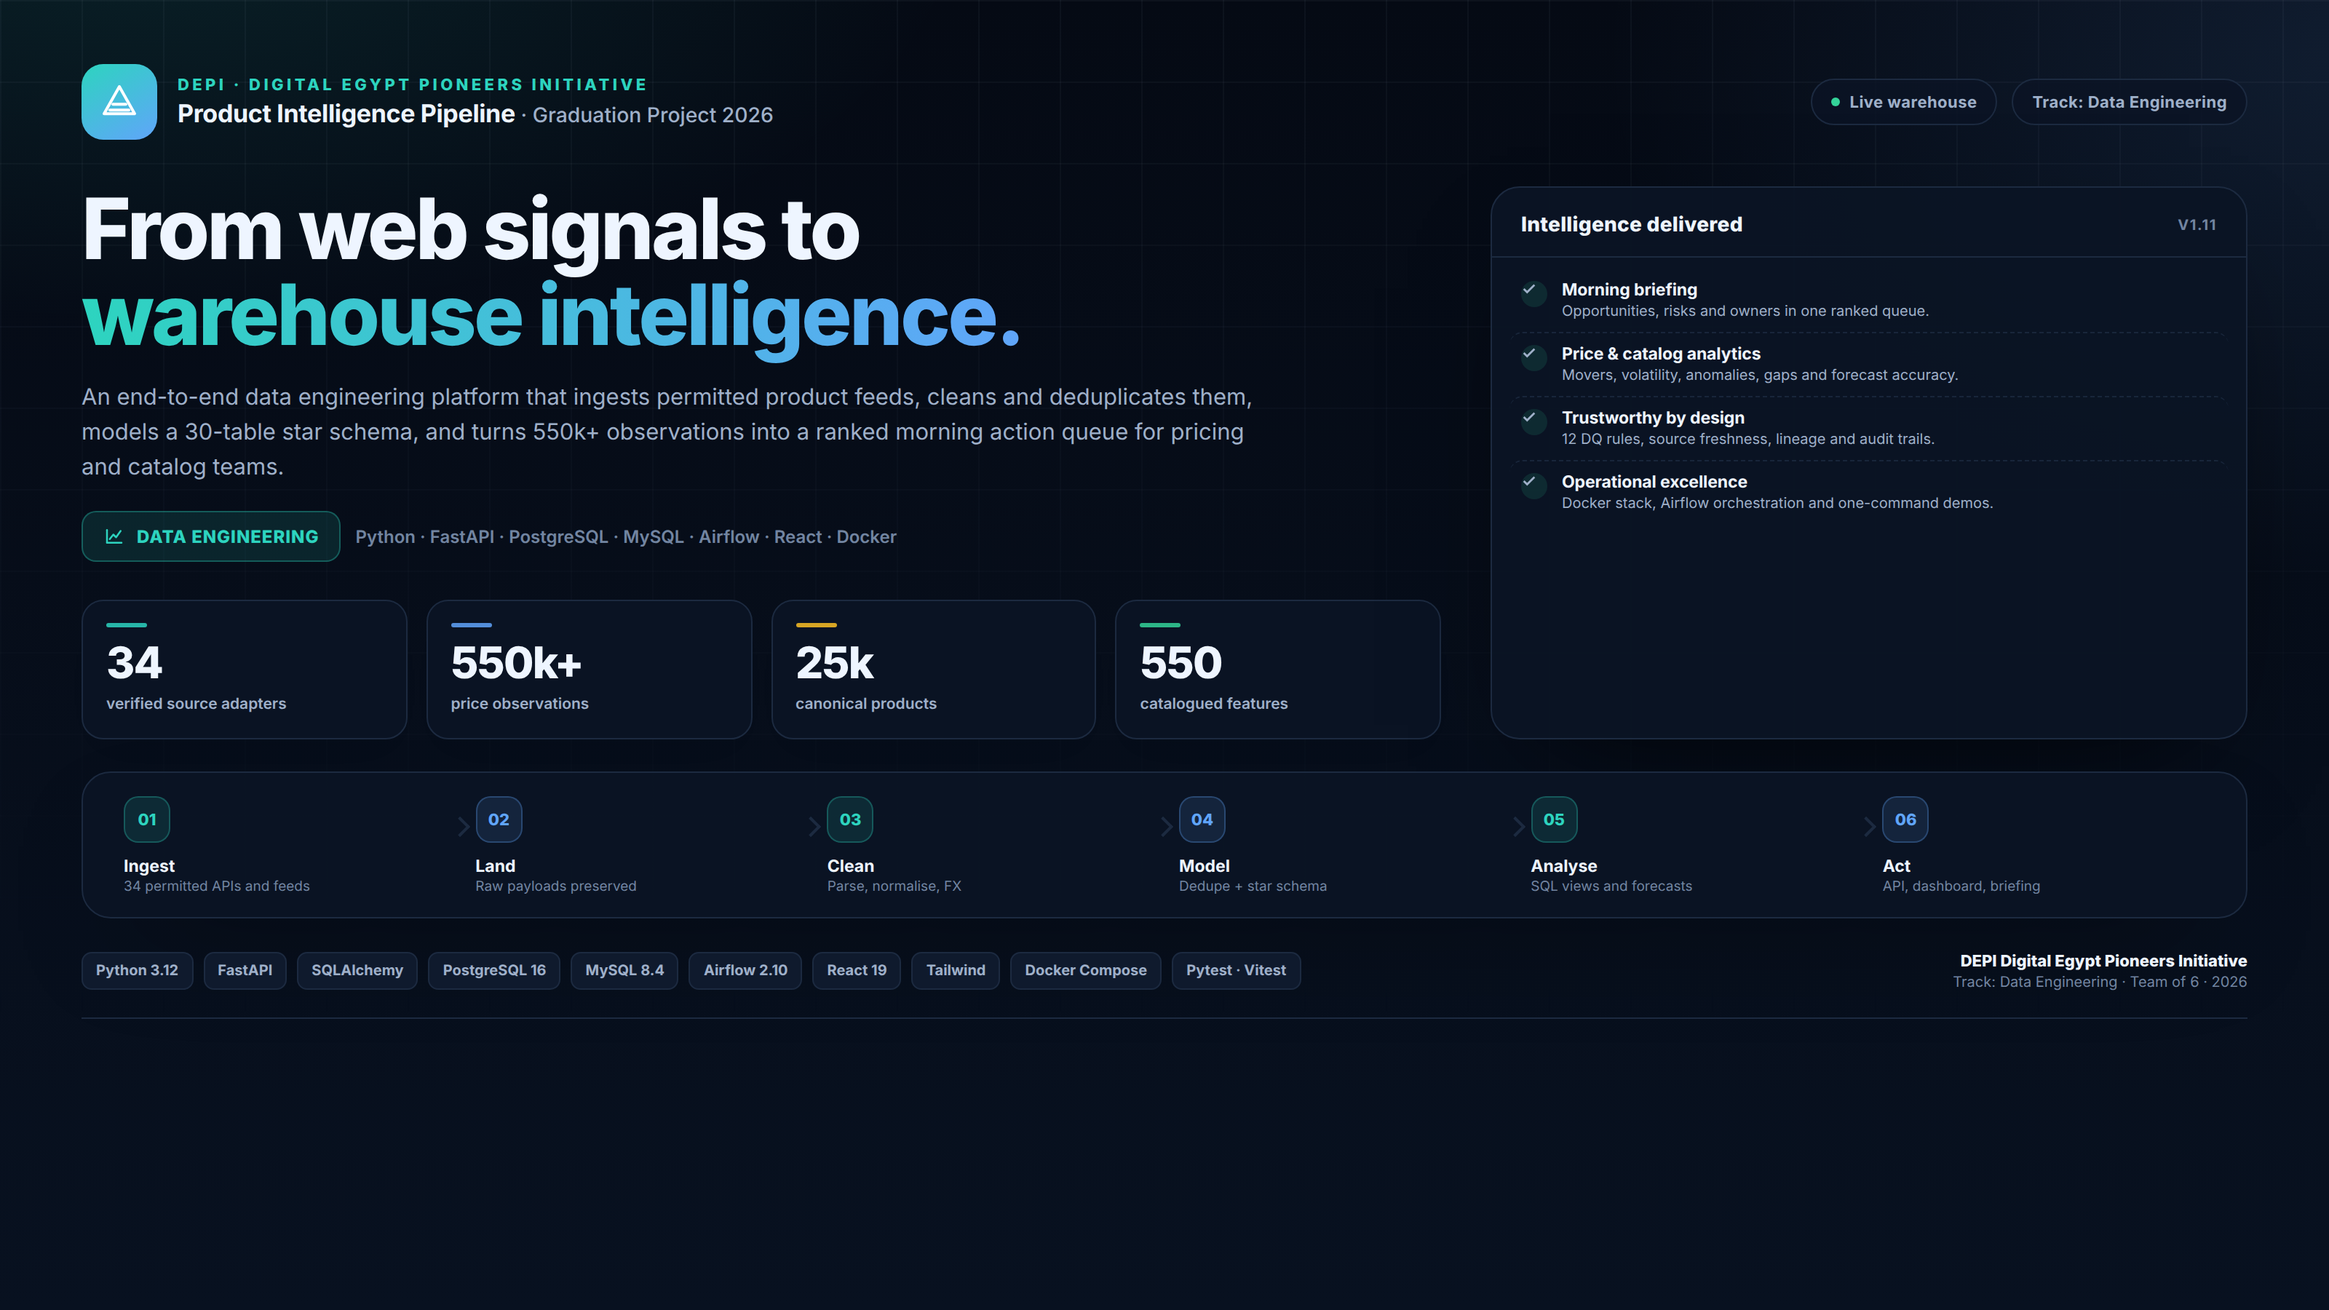
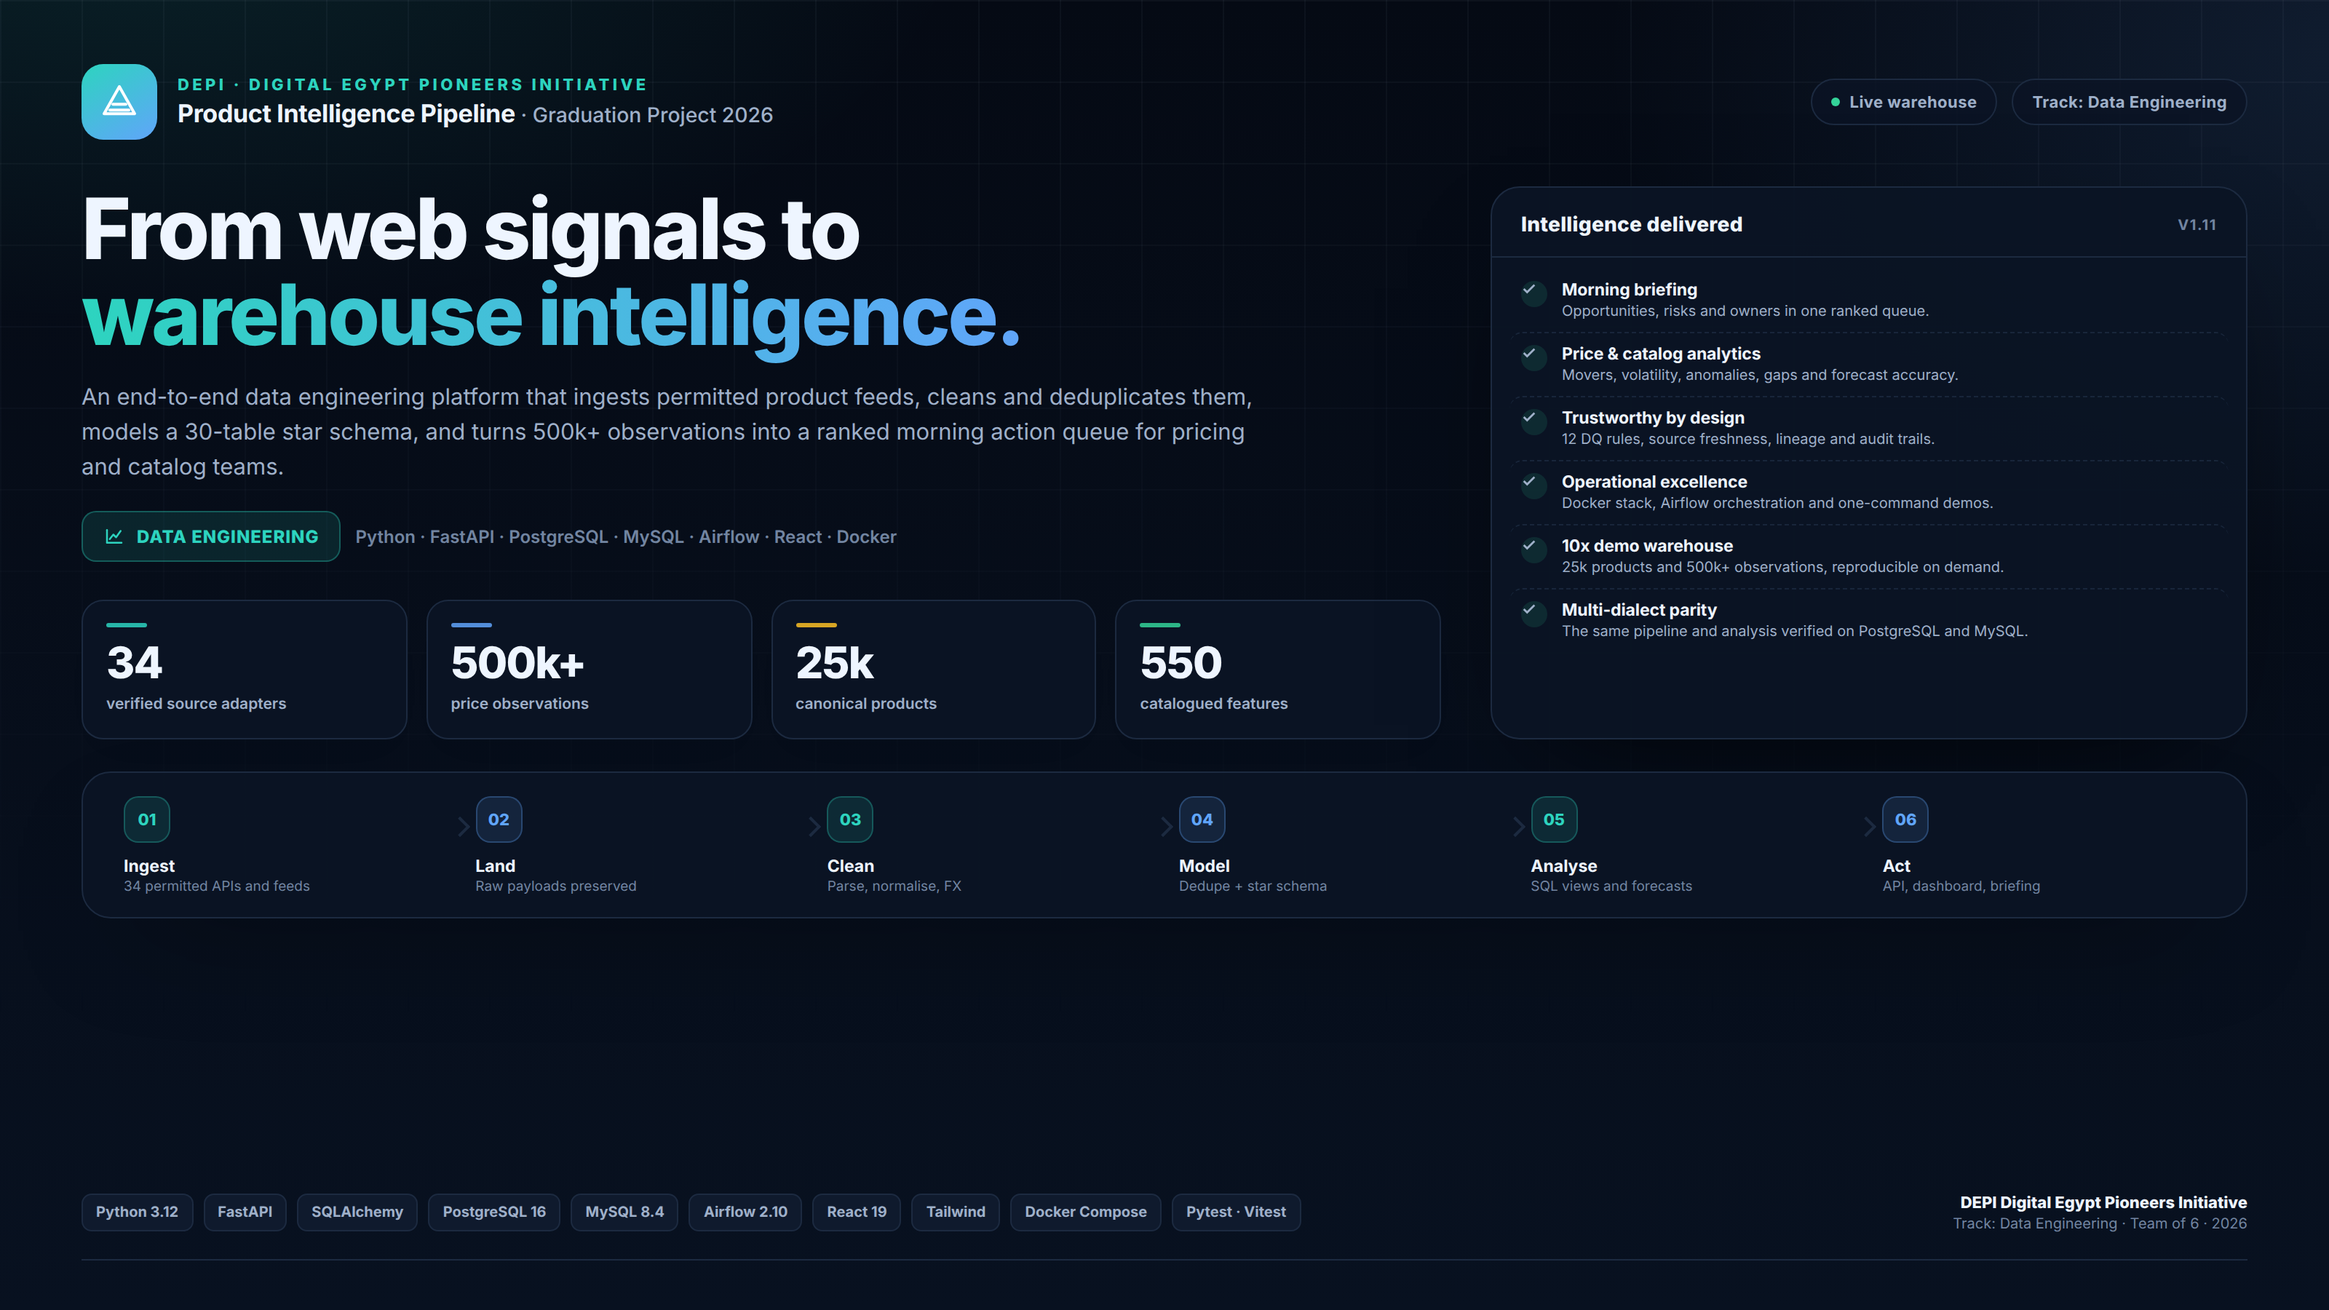
Release v1.11.0 with briefing and demo scale
Document the Morning Briefing intelligence layer, account defaults, and 10x synthetic demo warehouse. Bump project versions and release references to 1.11.0, and refresh infographic and website messaging for the expanded demo capabilities.

diff --git a/docs/assets/depi-infographic.html b/docs/assets/depi-infographic.html
@@ -164,7 +164,7 @@
   .node b { display: block; margin-top: 9px; font-size: 11.5px; font-weight: 750; }
   .node span { display: block; margin-top: 2px; color: var(--subtle); font-size: 9.5px; line-height: 1.3; }
 
-  .bottom { display: grid; grid-template-columns: 1fr auto; align-items: center; gap: 22px; margin-top: 22px; }
+  .bottom { display: grid; grid-template-columns: 1fr auto; align-items: center; gap: 22px; margin-top: auto; padding-top: 22px; }
   .stack { display: flex; flex-wrap: wrap; gap: 7px; }
   .chip {
     border: 1px solid var(--line); background: var(--card-2); border-radius: 7px;
@@ -208,7 +208,7 @@
         <h1>From web signals to<br/><span class="accent">warehouse intelligence.</span></h1>
         <p class="lede">
           An end-to-end data engineering platform that ingests permitted product feeds, cleans and
-          deduplicates them, models a 30-table star schema, and turns 550k+ observations into a ranked
+          deduplicates them, models a 30-table star schema, and turns 500k+ observations into a ranked
           morning action queue for pricing and catalog teams.
         </p>
         <div class="trackrow">
@@ -221,7 +221,7 @@
 
         <div class="stats">
           <div class="stat"><div class="bar"></div><b>34</b><span>verified source adapters</span></div>
-          <div class="stat"><div class="bar"></div><b>550k+</b><span>price observations</span></div>
+          <div class="stat"><div class="bar"></div><b>500k+</b><span>price observations</span></div>
           <div class="stat"><div class="bar"></div><b>25k</b><span>canonical products</span></div>
           <div class="stat"><div class="bar"></div><b>550</b><span>catalogued features</span></div>
         </div>
@@ -237,6 +237,8 @@
           <div class="feature"><span class="check"><svg viewBox="0 0 24 24" fill="none" stroke="currentColor" stroke-width="3"><path d="M20 6 9 17l-5-5"/></svg></span><div><b>Price &amp; catalog analytics</b><span>Movers, volatility, anomalies, gaps and forecast accuracy.</span></div></div>
           <div class="feature"><span class="check"><svg viewBox="0 0 24 24" fill="none" stroke="currentColor" stroke-width="3"><path d="M20 6 9 17l-5-5"/></svg></span><div><b>Trustworthy by design</b><span>12 DQ rules, source freshness, lineage and audit trails.</span></div></div>
           <div class="feature"><span class="check"><svg viewBox="0 0 24 24" fill="none" stroke="currentColor" stroke-width="3"><path d="M20 6 9 17l-5-5"/></svg></span><div><b>Operational excellence</b><span>Docker stack, Airflow orchestration and one-command demos.</span></div></div>
+          <div class="feature"><span class="check"><svg viewBox="0 0 24 24" fill="none" stroke="currentColor" stroke-width="3"><path d="M20 6 9 17l-5-5"/></svg></span><div><b>10x demo warehouse</b><span>25k products and 500k+ observations, reproducible on demand.</span></div></div>
+          <div class="feature"><span class="check"><svg viewBox="0 0 24 24" fill="none" stroke="currentColor" stroke-width="3"><path d="M20 6 9 17l-5-5"/></svg></span><div><b>Multi-dialect parity</b><span>The same pipeline and analysis verified on PostgreSQL and MySQL.</span></div></div>
         </div>
       </aside>
     </div>

diff --git a/website/index.html b/website/index.html
@@ -578,6 +578,7 @@ make frontend-dev  # dashboard on :5173</pre>
     </div>
     <div class="table-wrap"><table>
       <tr><th>Version</th><th>Theme</th></tr>
+      <tr><td><span class="pill">v1.11.0</span></td><td>Morning Briefing, 10x demo warehouse (25k products / 500k+ observations), mobile &amp; theme polish</td></tr>
       <tr><td><span class="pill">v1.10.0</span></td><td>Ingestion Max (TVMaze, Archive.org, recipes), Scrapy engine, conditional GET, team API</td></tr>
       <tr><td><span class="pill">v1.9.0</span></td><td>Real-only defaults, theme memory, modern scrollbars, Account Max, run.sh</td></tr>
       <tr><td><span class="pill">v1.8.0</span></td><td>Query power Max (HAVING, OR logic, saved-view lifecycle, query history)</td></tr>
@@ -595,7 +596,7 @@ make frontend-dev  # dashboard on :5173</pre>
       <p style="margin:0;color:var(--muted)">A retailer needs the market picture every morning. This pipeline replaces manual copy-paste with robots-gated ingestion from 34 sources, 29-step cleaning, fuzzy dedupe, a 29-table Kimball star on PostgreSQL + MySQL, 12 DQ rules, Airflow orchestration, forecasting, webhooks, backfill and a 21-screen React dashboard — no paid APIs, SQLite-runnable tests, one-command verification.</p>
       <div class="badges" style="margin-top:14px">
         <span class="badge">Topics <b>etl · airflow · fastapi · react · postgres · mysql · data-quality · scraping · warehouse · dashboard</b></span>
-        <span class="badge">Releases <b>v1.9.0 → v1.10.0</b></span>
+        <span class="badge">Releases <b>v1.9.0 → v1.11.0</b></span>
         <span class="badge">License <b>MIT</b></span>
         <span class="badge">Track <b>DEPI Data Engineering</b></span>
       </div>

diff --git a/docs/32_briefing_and_demo_scale.md b/docs/32_briefing_and_demo_scale.md
@@ -1,0 +1,147 @@
+# Morning Briefing & 10x Demo Scale
+
+This document covers the v1.11 intelligence layer and the synthetic expansion used
+for demos and screenshots. Both are additive: no existing ingest path, table or
+metric definition was replaced.
+
+## 1. Morning briefing
+
+### Why a composition layer
+
+The dashboard already had individual reports (movers, volatility, catalog gaps,
+stockouts, DQ, freshness). A user still had to open five screens to answer “what
+should I do first?”. The briefing composes those services into one ranked queue so
+the definition of a price drop or a stale source never forks.
+
+Source: `app/analytics/briefing.py`.
+Transport: `app/api/routers/intelligence.py`.
+
+### Endpoint
+
+```http
+GET /api/v1/intelligence/briefing?days=30&limit=6
+Authorization: Bearer <token>
+```
+
+| Parameter | Type | Default | Bounds | Meaning |
+| --- | --- | --- | --- | --- |
+| `days` | integer | 30 | 1–3650 | Analysis window |
+| `limit` | integer | 6 | 1–20 | Maximum items per section |
+
+Response sections:
+
+- `headline` — observations, canonical products, live sources, price changes,
+  significant changes, new/removed products, DQ score, opportunity/risk counts.
+- `opportunities` — drops, catalog gaps below market, discounts.
+- `risks` — increases, stockout pressure, anomalies, DQ failures, stale sources.
+- `category_signals` — categories ranked by average absolute move.
+- `freshness` — healthy vs stale sources and up to six stale source rows.
+- `best_value` — rating-per-dollar listings with at least ten reviews.
+- `actions` — the merged, severity-ranked queue rendered by the UI.
+
+Every insight has the same shape:
+
+```json
+{
+  "id": "drop-123",
+  "kind": "opportunity",
+  "severity": "high",
+  "title": "Product name",
+  "detail": "Category · $19.00 → $15.20 on source_code",
+  "metric": "-20.0%",
+  "delta": -20.0,
+  "icon": "trending-down",
+  "link": "/products/123",
+  "action": "Review the new price"
+}
+```
+
+### Ranking and noise controls
+
+1. Sort by severity (`critical`, `high`, `medium`, `low`), then by absolute delta.
+2. Exclude moves above 65% — these are nearly always unit, currency or ingestion
+   errors and belong in the anomaly/DQ screens.
+3. Exclude catalog gaps above 60% for the same reason.
+4. Suppress duplicate product IDs and duplicate catalog SKUs from historical
+   snapshots.
+5. Format sub-dollar prices with 4–8 decimals instead of rounding to `$0.00`.
+6. Cache the assembled response for 120 seconds per API worker.
+
+The cache is intentionally in-process. A pipeline run is followed by an API
+restart in the demo flow; tests and normal page refreshes still see fresh numbers
+within two minutes.
+
+### Account defaults
+
+`Account → Preferences` persists `briefing_window` and `briefing_size` in the
+profile's `preferences` JSON. `/briefing` reads them on mount, so every device
+opens the same window and queue length.
+
+### Verification
+
+```bash
+.venv/bin/python -m pytest tests/test_intelligence.py -q
+curl -s "http://localhost:8000/api/v1/health"
+```
+
+`tests/test_intelligence.py` covers authentication, the response contract, bounded
+sections, deep links and 422 validation for an out-of-range window.
+
+## 2. 10x demo warehouse
+
+### Command
+
+```bash
+# inside the API container
+docker exec pip-api python -m app.cli.main expand-demo --products 19500 --days 26
+
+# or locally
+.venv/bin/python -m app.cli.main expand-demo --products 19500 --days 26
+```
+
+The command is idempotent: if the reserved cohort already has at least the
+requested number of products and any snapshots, it reports live totals and skips.
+
+### What is generated
+
+| Artefact | Approximate volume |
+| --- | --- |
+| Synthetic products (`SYN-000001` …) | 19,500 |
+| Price snapshots | 506,000 |
+| Price-change records | ~343,000 |
+| Lifecycle events | ~20,000 |
+| Internal catalog SKUs | ~13,000 |
+| Catalog match snapshots | ~13,000 |
+
+All rows use source `local_demo` and the reserved `SYN-` external-id prefix, so
+they are easy to identify or delete. The cohort uses deterministic seeds, price
+walks with periodic promotions, rare clearance shocks, lifecycle gaps, and seeded
+DQ defects.
+
+After the append, `agg_category_daily` is rebuilt from `fact_price_snapshot` for
+the generated window. `dim_product.current_price`, `dim_category.product_count`
+and `dim_source` counters are refreshed.
+
+### Resulting demo totals
+
+- Products: **25,076**
+- Observations: **~538k** after removing 66 known outlier snapshots from the old
+  seed history
+- Catalog SKUs: **13,000**
+- Sources reporting: **31 of 34**
+- Postgres size: ~90 MB at the original seed → substantially larger after the
+  expansion (measure with `docker exec pip-postgres psql -U pip -d pipeline -c
+  "SELECT pg_size_pretty(pg_database_size('pipeline'));"`).
+
+### Why some source rows were removed
+
+The original `local_demo` seed had 120 days of history, and several older manual
+pipeline runs appended a second snapshot for the same product/date. Those runs
+produced interleaved day-over-day changes in the thousands of percent. v1.11
+removes:
+
+- the 66 clearly out-of-range snapshots from historical runs, and
+- 4,521 non-seed `DEMO-` snapshots plus their changes/events.
+
+The remaining seed series is the intended walk (daily moves ≤18%), so movers and
+charts show credible values.

diff --git a/CHANGELOG.md b/CHANGELOG.md
@@ -17,6 +17,48 @@ versions follow [Semantic Versioning](https://semver.org/spec/v2.0.0.html).
 - **Crawler contact is now real** — `INGEST_USER_AGENT` uses
   `ahmedbakr78102@gmail.com` instead of the placeholder address.
 
+## [1.11.0] - 2026-10-20
+
+### Added (Morning Briefing & 10x demo warehouse)
+
+- **Morning briefing screen** at `/briefing` — a ranked action queue that composes
+  existing analytics services instead of redefining metrics. Opportunities merge
+  price drops, catalog gaps and discounts; risks merge rises, stockouts, anomalies,
+  DQ failures and stale sources.
+- **`GET /api/v1/intelligence/briefing`** — authenticated, windowed (1–3650 days)
+  and bounded; every insight includes severity, metric, deep link and recommended
+  action. Results are cached for 120 seconds per worker.
+- **Account briefing defaults** — preferred window and queue size persist to the
+  profile and follow the user across devices.
+- **10x demo warehouse** — `pip-cli expand-demo` appends a deterministic synthetic
+  cohort (19,500 products, 26 days, 506k snapshots, 13k catalog SKUs, lifecycle
+  events and price changes), taking the demo to **25,076 products / 550k+ initial
+  observations** and rebuilding `agg_category_daily` from facts.
+- **Idempotent expansion** — the command detects an existing `SYN-` cohort and
+  skips the expensive work; no existing product or snapshot is modified.
+- **New feature groups** — Intelligence, 10x Demo Warehouse, and Mobile/Theme
+  polish are now part of the 550-feature catalogue served by `/meta/features`.
+
+### Changed
+
+- Briefing/action ranking now filters extreme >65% moves and unit-mismatch catalog
+  gaps, suppresses duplicate product/catalog snapshots, and formats sub-dollar
+  prices with 4–8 decimals instead of `$0.00`.
+- `best_value` excludes out-of-range ratings above 5.
+- Mobile polish: compact stat tiles, two-column KPI grids, a safe-area-aware
+  navigation drawer and a tighter header.
+- Global scrollbars remain hidden; route chunks are preloaded during idle time so
+  navigation stays silent. No route transition animations were added.
+
+### Fixed
+
+- Duplicate `Badge` children rendered twice.
+- Document title stayed on “Sign in” after authentication.
+- Demo `local_demo` history contained cross-run price outliers; the corrupted
+  rows were removed and affected catalog rollups rebuilt.
+- Briefing cache is invalidated by process restart; warm requests complete in
+  ~10 ms and cold requests stay under ~3 s on the 538k-row fact table.
+
 ## [1.10.0] - 2026-10-15
 
 ### Fixed (real-data hardening)

diff --git a/docs/31_releases.md b/docs/31_releases.md
@@ -16,7 +16,7 @@ Semantic versioning (`MAJOR.MINOR.PATCH`), single source in `VERSION`:
 `frontend/package.json` and the app settings — never edit those by hand:
 
 ```bash
-printf '1.10.0' > VERSION
+printf '1.11.0' > VERSION
 .venv/bin/python scripts/sync_version.py
 ```
 
@@ -35,7 +35,7 @@ Commands (owner runs these — nobody else can release for you):
 
 ```bash
 # 1-2: version + changelog (Unreleased section becomes the new version)
-printf '1.10.0' > VERSION
+printf '1.11.0' > VERSION
 .venv/bin/python scripts/sync_version.py
 
 # 3: re-measure every structural figure; fail loudly on drift
@@ -47,10 +47,10 @@ printf '1.10.0' > VERSION
 ./run.sh --verify-only
 
 # 5-6: commit, tag, publish
-git add -A && git commit -m "Release v1.10.0 — <one-line theme>"
-git tag -a v1.10.0 -m "v1.10.0 — <one-line theme>"
-git push origin main v1.10.0
-gh release create v1.10.0 --title "v1.10.0" --notes-file CHANGELOG.md
+git add -A && git commit -m "Release v1.11.0 — <one-line theme>"
+git tag -a v1.11.0 -m "v1.11.0 — <one-line theme>"
+git push origin main v1.11.0
+gh release create v1.11.0 --title "v1.11.0" --notes-file CHANGELOG.md
 ```
 
 ## GitHub About box (paste-ready)
@@ -80,6 +80,7 @@ Make private (or `gh repo edit <repo> --visibility private
 
 | Version | Theme |
 |---|---|
+| 1.11.0 | Morning Briefing, 10x demo warehouse, account briefing defaults, mobile/theme polish |
 | 1.10.0 | Ingestion Max: TVMaze + Archive.org + DummyJSON recipes, Scrapy engine, conditional GET, team API |
 | 1.9.0 | Real-only defaults, theme memory, modern scrollbars, Account Max, run.sh |
 | 1.8.0 | Query power Max (HAVING, OR logic, saved-view lifecycle, query history) |

diff --git a/README.md b/README.md
@@ -1680,9 +1680,9 @@ Or: Repo → Settings → General → Danger Zone → Change visibility → Make
 
 **Cut a release:**
 ```bash
-git tag -a v1.10.0 -m "v1.10.0 — ingestion Max, team API, long repo surface"
-git push origin v1.10.0
-gh release create v1.10.0 --title "v1.10.0" --notes-file CHANGELOG.md
+git tag -a v1.11.0 -m "v1.11.0 — morning briefing and 10x demo warehouse"
+git push origin v1.11.0
+gh release create v1.11.0 --title "v1.11.0" --notes-file CHANGELOG.md
 ```
 Full playbook: [docs/31_releases.md](docs/31_releases.md).
 
